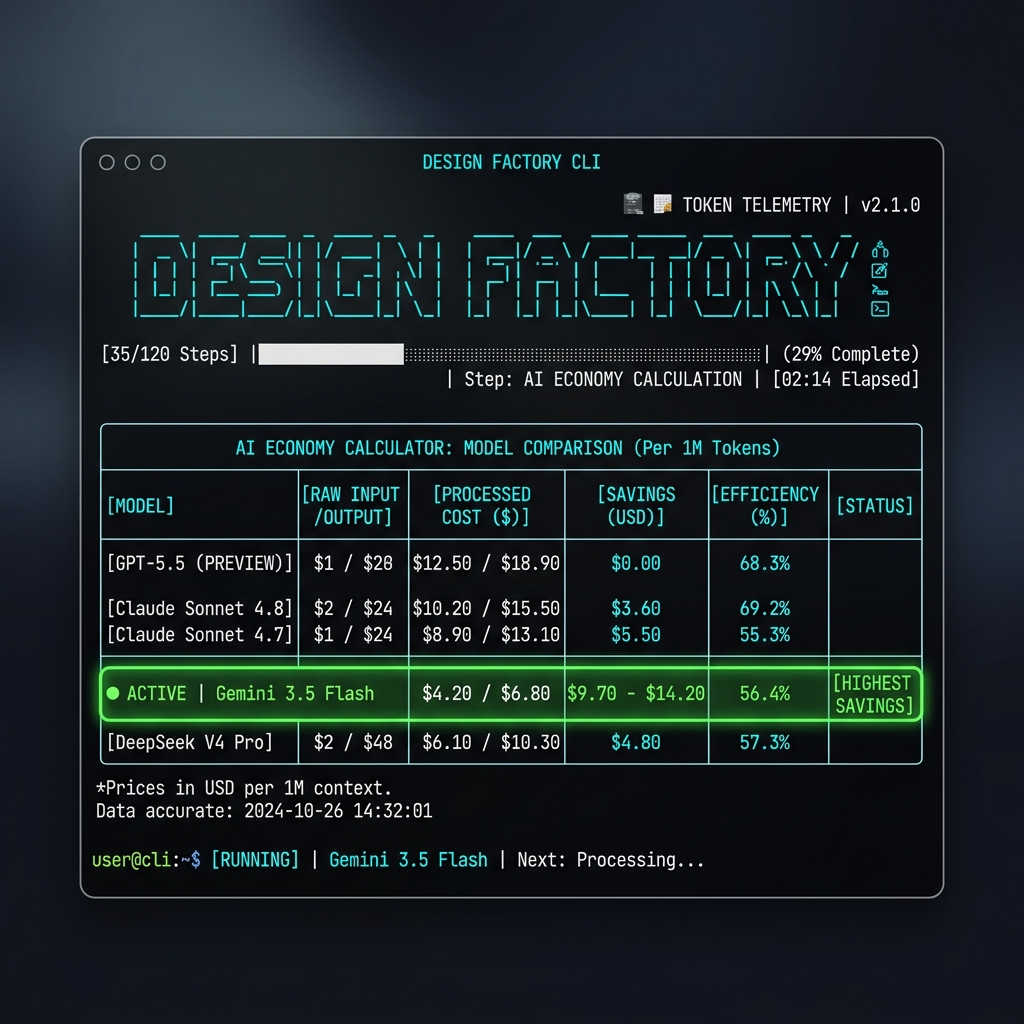
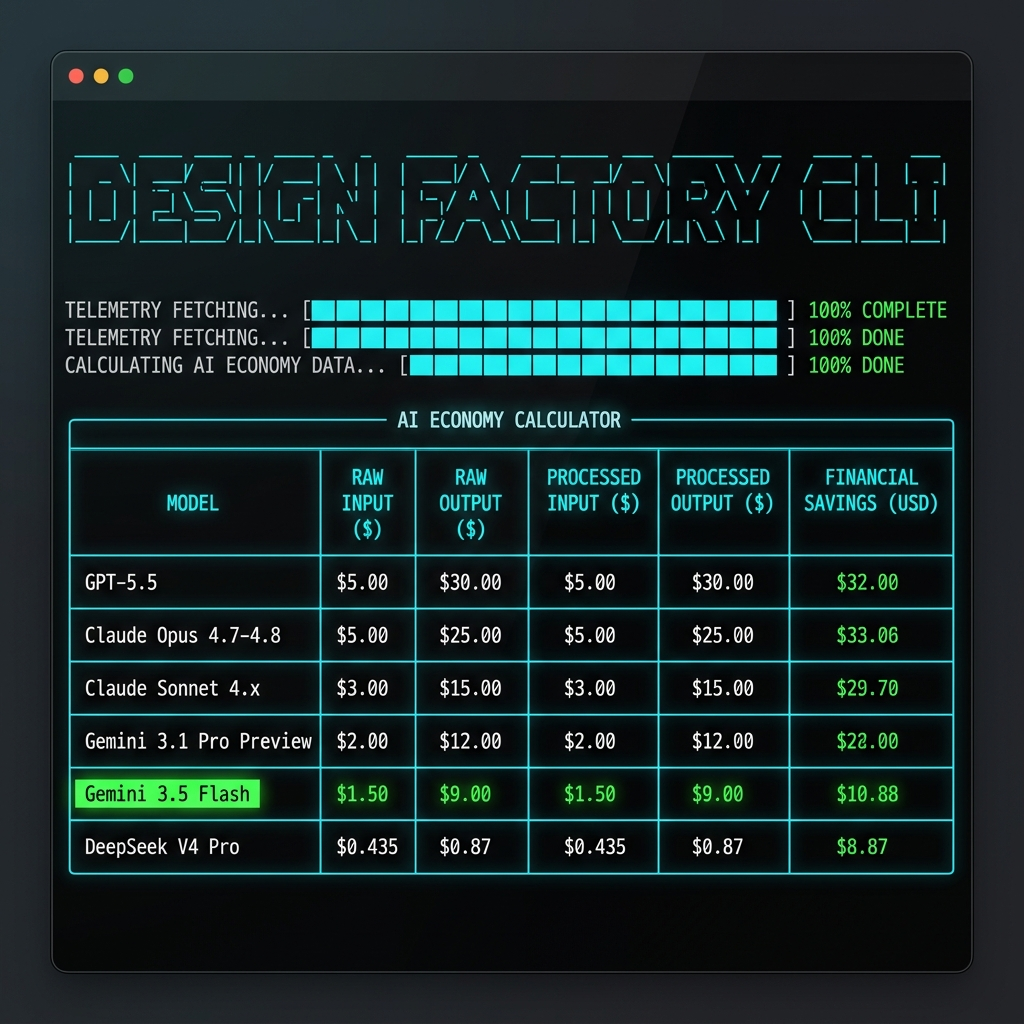
feat(cli): integrate verified May 2026 model pricing and update terminal telemetry screenshot

diff --git a/README.md b/README.md
@@ -164,29 +164,32 @@ To provide maximum economic transparency, `df` features a built-in **AI Economy 
 
 Whenever you run the extraction pipeline, `df` automatically detects your active AI environment via environment variables (such as Gemini CLI, Claude Code, OpenAI Codex, or DeepSeek API) and performs a real-time financial audit showing the exact cost of the prompt before and after Design Factory optimization:
 
-*   **Intelligent Active Model Hashing & 2026 Rates:**
-    *   **Google Gemini 3.5 Flash** *(May 19, 2026)* — **$1.50** / 1M input tokens. (Active by default in Gemini CLI sessions).
-    *   **Anthropic Claude Sonnet 4.8 / 4.7** — **$3.00** / 1M input tokens. (Active in Claude Code sessions).
-    *   **OpenAI GPT-5.5** *(April 23, 2026)* — **$5.00** / 1M input tokens. (Active in OpenAI Codex/GPT sessions).
-    *   **DeepSeek V4 Pro** — **$0.14** / 1M input tokens. (Active in DeepSeek sessions).
+*   **Intelligent Active Model Hashing & Verified May 2026 Rates:**
+    *   **Google Gemini 3.5 Flash** — **$1.50** / 1M input, **$9.00** / 1M output. (Active by default in Gemini CLI sessions).
+    *   **Google Gemini 3.1 Pro (Preview)** — **$2.00** / 1M input, **$12.00** / 1M output.
+    *   **Anthropic Claude Sonnet 4.x** — **$3.00** / 1M input, **$15.00** / 1M output. (Active in Claude Code sessions).
+    *   **Anthropic Claude Opus 4.7-4.8** — **$5.00** / 1M input, **$25.00** / 1M output.
+    *   **OpenAI GPT-5.5** — **$5.00** / 1M input, **$30.00** / 1M output. (Active in OpenAI Codex/GPT sessions).
+    *   **DeepSeek V4 Pro** — **$0.435** / 1M input, **$0.87** / 1M output. (Active in DeepSeek sessions).
 
 #### Example Telemetry Output:
 
 ```text
   💸 ФИНАНСОВАЯ ЭКОНОМИЯ ДЛЯ ИИ-КАЛЬКУЛЯТОРА (ФОКУС НА ВВОД)
   ================================================================================
-  • Без оптимизации (Сырой контекст):       $0.10300  (Gemini 3.5 Flash)
-  • С оптимизацией Design Factory:         $0.00410  (Gemini 3.5 Flash)
+  • Без оптимизации (Сырой контекст):       $0.07725  (Gemini 3.5 Flash)
+  • С оптимизацией Design Factory:         $0.00310  (Gemini 3.5 Flash)
 
   Сравнительная стоимость одного прогона по моделям (ввод в USD):
   --------------------------------------------------------------------------------
   МОДЕЛЬ                БЕЗ ОПТИМИЗАЦИИ    С DESIGN FACTORY   СЭКОНОМЛЕНО
   --------------------------------------------------------------------------------
   GPT-5.5               $0.25750           $0.01030           $0.24720 (96.0%)
-  Claude Sonnet 4.8     $0.15450           $0.00620           $0.14830 (96.0%)
-  Claude Sonnet 4.7     $0.15450           $0.00620           $0.14830 (96.0%)
-* Gemini 3.5 Flash [АКТИВ] $0.10300           $0.00410           $0.09890 (96.0%)  
-  DeepSeek V4 Pro       $0.00720           $0.00030           $0.00690 (96.0%)
+  Claude Opus 4.7-4.8   $0.25750           $0.01030           $0.24720 (96.0%)
+  Claude Sonnet 4.x     $0.15450           $0.00620           $0.14830 (96.0%)
+  Gemini 3.1 Pro (Prev) $0.10300           $0.00410           $0.09890 (96.0%)
+* Gemini 3.5 Flash [АКТИВ] $0.07725           $0.00310           $0.07415 (96.0%)  
+  DeepSeek V4 Pro       $0.02240           $0.00090           $0.02150 (96.0%)
   --------------------------------------------------------------------------------
 ```
 
